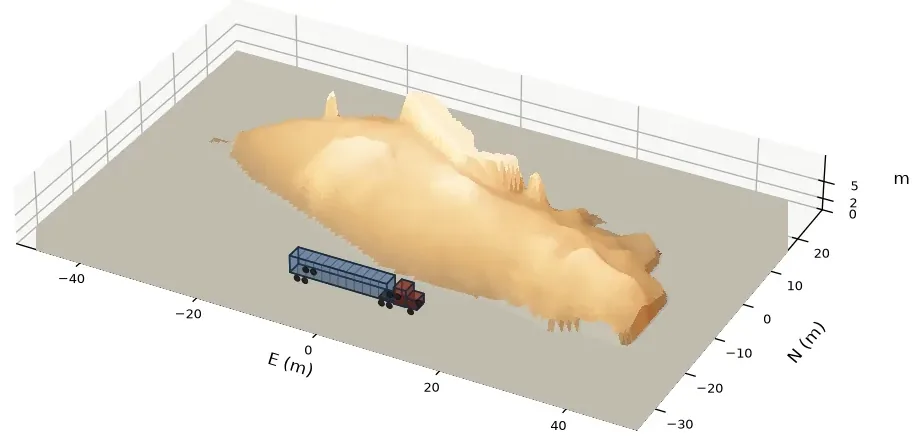
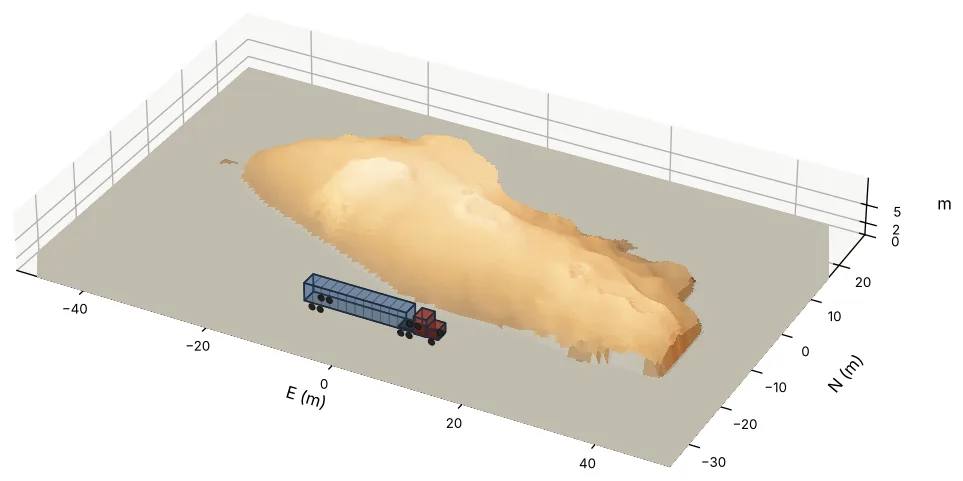
Open on pile 1's 3-D view; clean the tree spikes off its back edge
pile_views.py gains an optional DESPIKE filter (grey opening, 9 m for pile 1)
that lowers narrow spikes on the footprint edge to the surrounding surface.

Claude-Session: https://claude.ai/code/session_013czWek7KxoxqVoJnqrTwy2

diff --git a/index.html b/index.html
@@ -177,7 +177,7 @@
   const parseG = (g) => (typeof g === 'string' ? JSON.parse(g) : g || []);
   const reduceMotion = window.matchMedia('(prefers-reduced-motion: reduce)').matches;
   const OUTSIDE = 'outside units';
-  const IMG_V = '20261024h';  // bump when the pile images in data/piles/ are re-rendered
+  const IMG_V = '20261024i';  // bump when the pile images in data/piles/ are re-rendered
 
   const S = { p: {}, defaults: {}, built: false, projects: new Set(), minDiam: 40,
               t: d3.zoomIdentity, picked: null, show: { fs: true, units: true, proj: true } };
@@ -637,6 +637,12 @@
     const W = $('#mapwrap').clientWidth;
     if (W !== lastW || !geo) { lastW = W; drawMap(); }
     update();
+    // open on the largest pile (Sleighville unit 265) so its 3-D view shows without a click
+    if (!S.opened) {
+      S.opened = true;
+      const first = P.find((d) => d.id === 1);
+      if (first) pick(first, false);
+    }
   };
 
   const get = (f) => fetch('data/' + f + '?v=20261024h').then((r) => {

diff --git a/tools/pile_views.py b/tools/pile_views.py
@@ -29,7 +29,7 @@ import pdal
 from pyproj import Transformer
 from scipy.interpolate import griddata
 from scipy.spatial import cKDTree
-from scipy.ndimage import median_filter
+from scipy.ndimage import median_filter, grey_opening
 from matplotlib.path import Path
 import matplotlib
 matplotlib.use('Agg')
@@ -250,6 +250,12 @@ def render_one(pile, tile_dir, out_dir):
         H = np.where(inside & np.isfinite(h), np.clip(h, 0, hmax_m + 0.3), 0.0)
         # a 2.5 m median takes out the tree clumps the point filter keeps at the edges
         H = np.where(inside, median_filter(H, size=5, mode='nearest'), 0.0)
+        # optional: knock down narrow spikes (tree clumps on the footprint edge) to the surrounding surface
+        k = int(os.environ.get('DESPIKE', 0))
+        if k:
+            base = grey_opening(H, size=k)
+            H = np.where(H - base > 0.8, base, H)
+            H = np.where(inside, median_filter(H, size=3, mode='nearest'), 0.0)
     vol = float(H.sum() * CELL * CELL)
 
     # ---- figure
